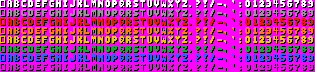
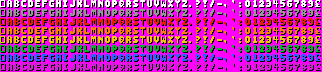
Added a currency symbol.

diff --git a/src/FontEngine.py b/src/FontEngine.py
@@ -2,7 +2,7 @@ import pygame
 from src.ImageLibrary import IMAGES
 from src.constants import *
 # These values are in the composite image generator
-LETTERS = '`abcdefghijklmnopqrstuvwxyz.?!/-,\':0123456789'
+LETTERS = '`abcdefghijklmnopqrstuvwxyz.?!/-,\':0123456789$'
 COLORS = 'white gray red orange yellow green blue purple'.split(' ')
 WIDTH = 7 * 2
 HEIGHT = 9 * 2

diff --git a/images/text/combine.py b/images/text/combine.py
@@ -1,6 +1,6 @@
 import pygame
 
-LETTERS = '`abcdefghijklmnopqrstuvwxyz.?!/-,\':0123456789'
+LETTERS = '`abcdefghijklmnopqrstuvwxyz.?!/-,\':0123456789$'
 
 BACKGROUND = (255, 0, 255)
 
@@ -25,6 +25,7 @@ filename_overrides = {
 	',': 'comma',
 	"'": 'apostrophe',
 	':': 'colon',
+	'$': 'pound',
 }
 for i in range(10):
 	filename_overrides[str(i)] = 'num' + str(i)
